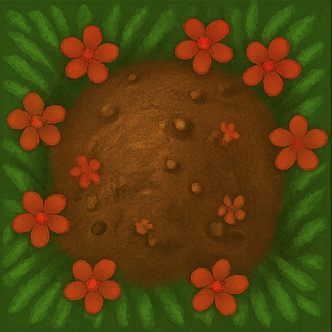
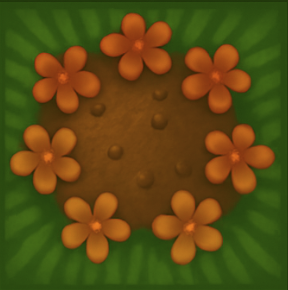
Update colors to be more indentifiable

diff --git a/src/utils/colorPalette.ts b/src/utils/colorPalette.ts
@@ -18,7 +18,7 @@ export const COLOR_PALETTE: ColorName[] = [
 // Single letter symbols for each color (useful for text output)
 export const COLOR_SYMBOLS: Record<ColorName | 'undefined', string> = {
   red: 'R',
-  blue: 'B',
+  blue: 'A',
   green: 'G',
   yellow: 'Y',
   purple: 'P',
@@ -26,7 +26,7 @@ export const COLOR_SYMBOLS: Record<ColorName | 'undefined', string> = {
   orange: 'O',
   teal: 'T',
   indigo: 'I',
-  amber: 'A',
+  amber: 'B',
   undefined: '.',
 };
 